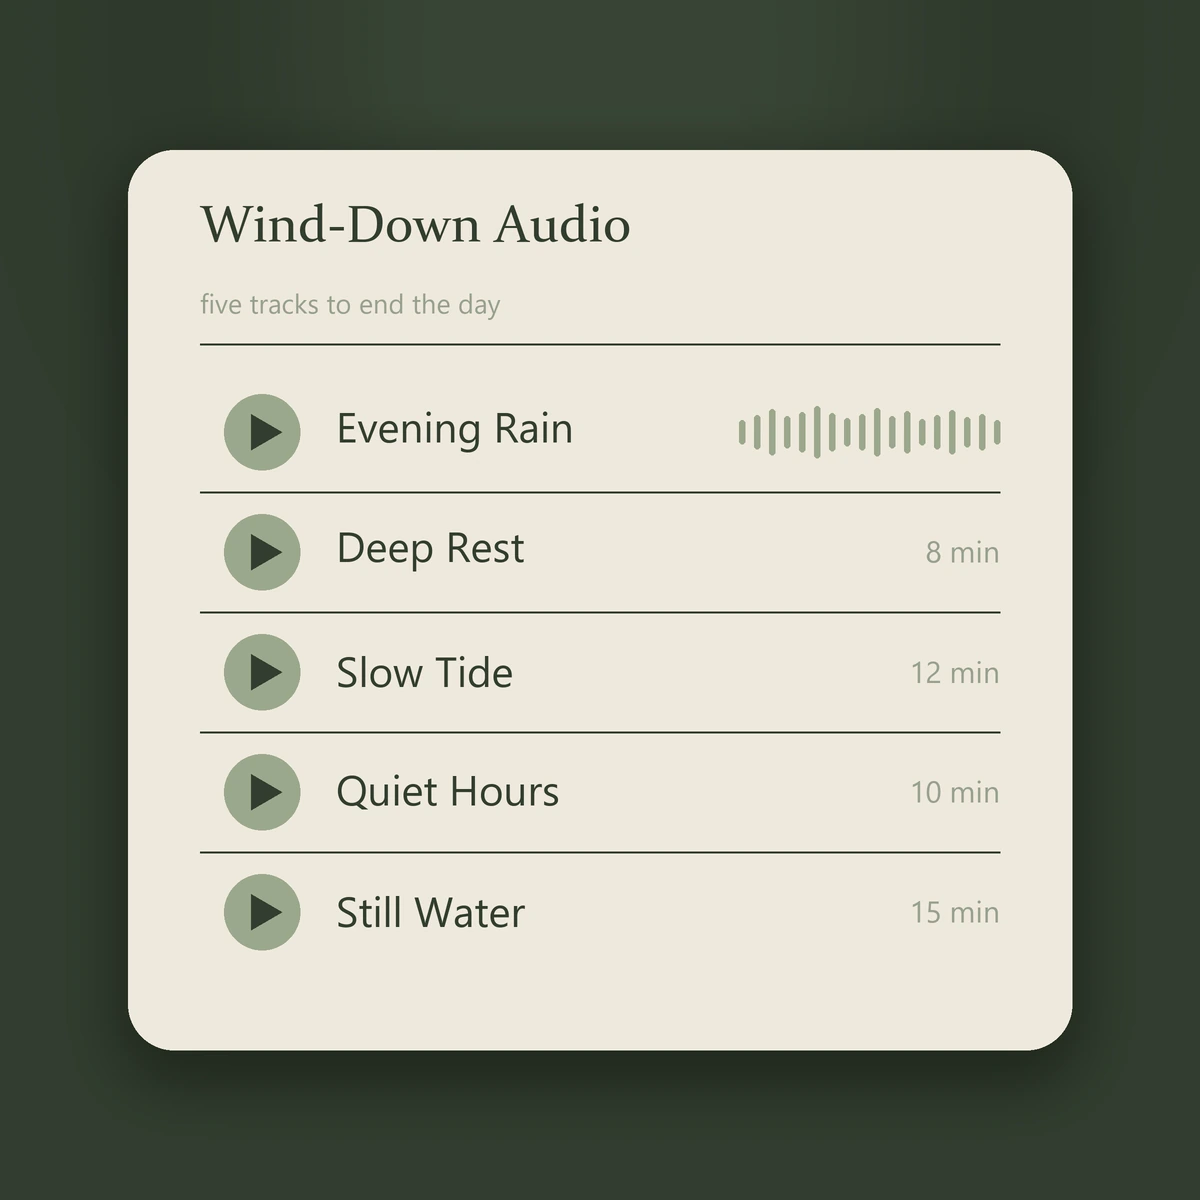
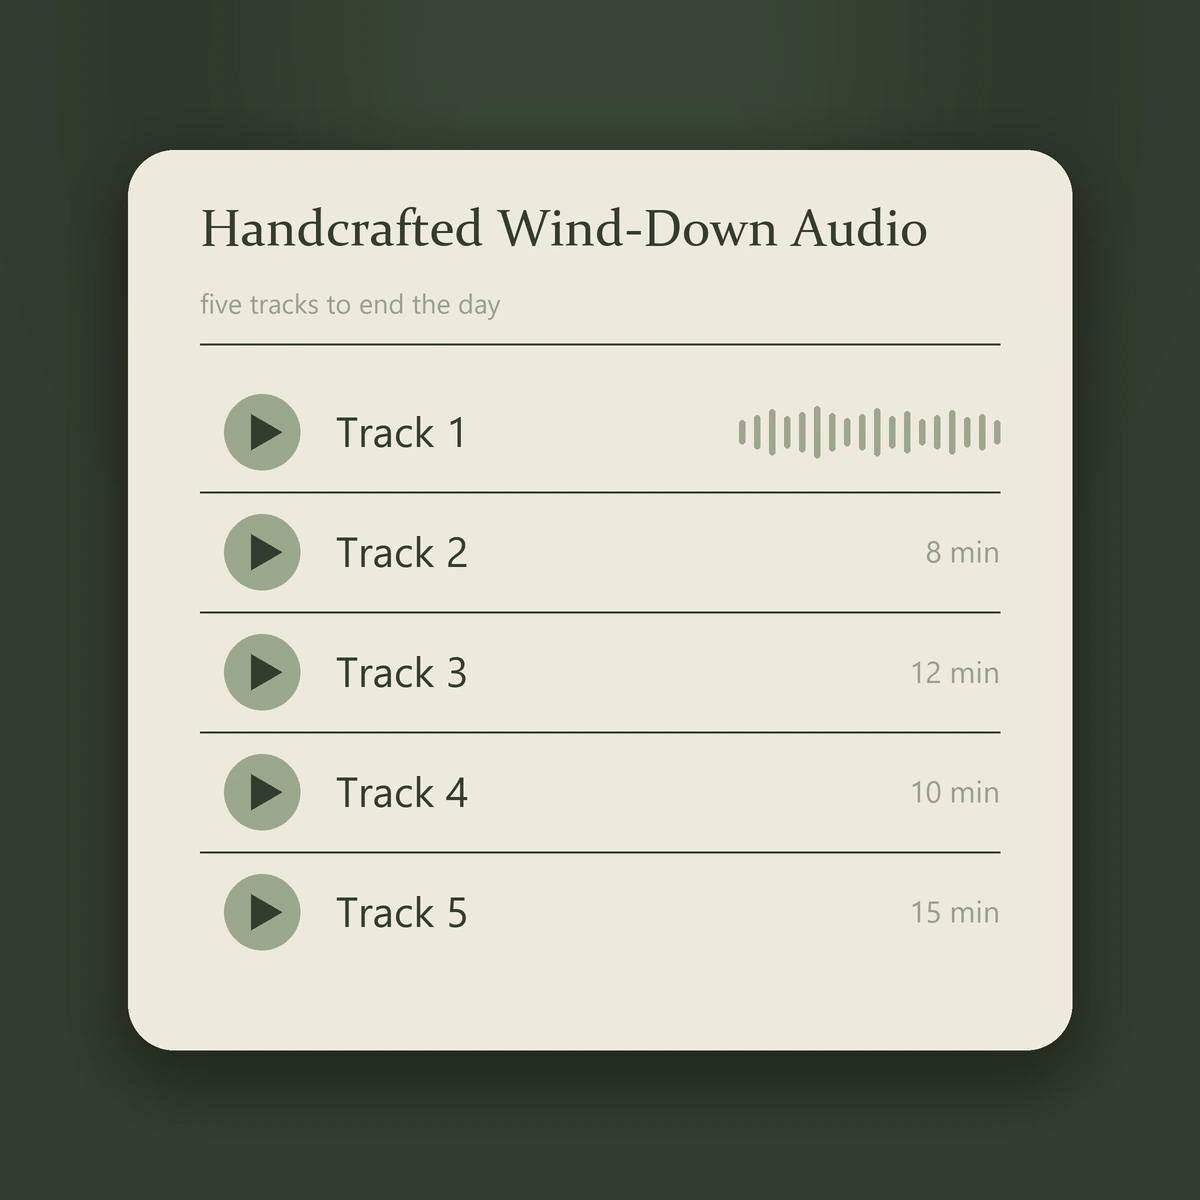
Redesign offer visuals: premium map, 5-track audio, night tile, new layout
- Audio tile: header "Handcrafted Wind-Down Audio", tracks relabeled
  Track 1-5.
- Trigger Points Map redesigned to look far more premium and read clearly:
  numbered points with a soft tension-glow, trapezius/spine anatomical
  contours, a clarifying subtitle, and editorial corner ticks.
- New "The 10-Minute Wind-Down" night tile (crescent moon, breathing rings,
  stars, layered hills, serif title) matching the set's green treatment.
- Offer layout: big Nuro image on the left, three tiles stacked and aligned
  on the right (night, trigger map, audio).

Claude-Session: https://claude.ai/code/session_01V2szZYPdXTGkr3oP2i7kNf

diff --git a/src/components/product/special-offer.tsx b/src/components/product/special-offer.tsx
@@ -73,8 +73,9 @@ export default function SpecialOffer() {
         </ScrollReveal>
 
         <ScrollReveal>
-          <div className="grid grid-cols-2 md:grid-cols-4 gap-3 md:gap-4 items-stretch w-full max-w-5xl mx-auto">
-            <div className="aspect-square rounded-2xl md:rounded-3xl overflow-hidden border border-black/[0.06] shadow-lg">
+          <div className="grid grid-cols-4 gap-3 md:gap-4 items-stretch w-full max-w-4xl mx-auto">
+            {/* Big Nuro image on the left */}
+            <div className="col-span-3 rounded-2xl md:rounded-3xl overflow-hidden border border-black/[0.06] shadow-lg">
               <Image
                 src="/products/nuro-main-v2.webp"
                 alt="The Nuro heated shiatsu neck and shoulder massager"
@@ -84,35 +85,38 @@ export default function SpecialOffer() {
                 className="w-full h-full object-cover"
               />
             </div>
-            <div className="aspect-square rounded-2xl md:rounded-3xl overflow-hidden border border-black/[0.06] shadow-lg">
-              <Image
-                src="/products/nuro-guide-3d.webp"
-                alt="The Trigger Points Map guide, free with every Nuro"
-                width={1080}
-                height={1080}
-                loading="lazy"
-                className="w-full h-full object-cover"
-              />
-            </div>
-            <div className="aspect-square rounded-2xl md:rounded-3xl overflow-hidden border border-black/[0.06] shadow-lg">
-              <Image
-                src="/products/nuro-trigger-map.webp"
-                alt="The Trigger Points Map, the 5 pressure-point spots for neck relief"
-                width={1200}
-                height={1200}
-                loading="lazy"
-                className="w-full h-full object-cover"
-              />
-            </div>
-            <div className="aspect-square rounded-2xl md:rounded-3xl overflow-hidden border border-black/[0.06] shadow-lg">
-              <Image
-                src="/products/nuro-audio.webp"
-                alt="Wind-Down Audio, five calming tracks free with every Nuro"
-                width={1200}
-                height={1200}
-                loading="lazy"
-                className="w-full h-full object-cover"
-              />
+            {/* Three tiles stacked on the right */}
+            <div className="flex flex-col gap-3 md:gap-4">
+              <div className="aspect-square rounded-xl md:rounded-2xl overflow-hidden border border-black/[0.06] shadow-sm">
+                <Image
+                  src="/products/nuro-night.webp"
+                  alt="The 10-Minute Wind-Down, ten quiet minutes to switch off"
+                  width={1200}
+                  height={1200}
+                  loading="lazy"
+                  className="w-full h-full object-cover"
+                />
+              </div>
+              <div className="aspect-square rounded-xl md:rounded-2xl overflow-hidden border border-black/[0.06] shadow-sm">
+                <Image
+                  src="/products/nuro-trigger-map.webp"
+                  alt="The Trigger Points Map, the 5 spots that hold your tension"
+                  width={1200}
+                  height={1200}
+                  loading="lazy"
+                  className="w-full h-full object-cover"
+                />
+              </div>
+              <div className="aspect-square rounded-xl md:rounded-2xl overflow-hidden border border-black/[0.06] shadow-sm">
+                <Image
+                  src="/products/nuro-audio.webp"
+                  alt="Handcrafted Wind-Down Audio, five calming tracks free with every Nuro"
+                  width={1200}
+                  height={1200}
+                  loading="lazy"
+                  className="w-full h-full object-cover"
+                />
+              </div>
             </div>
           </div>
         </ScrollReveal>
